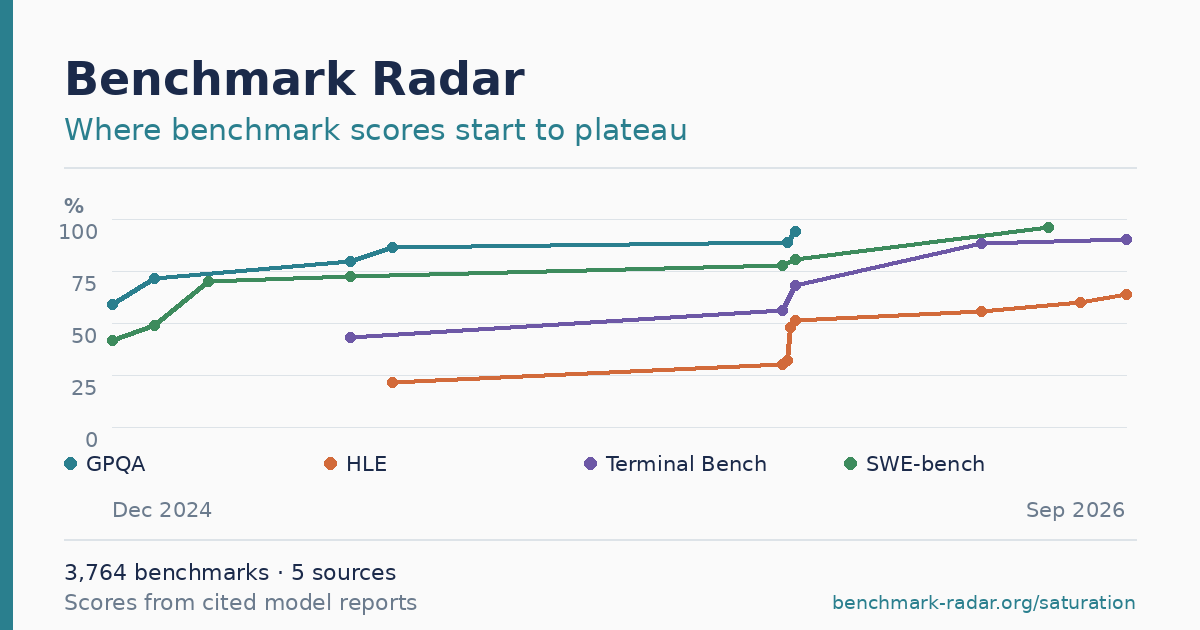
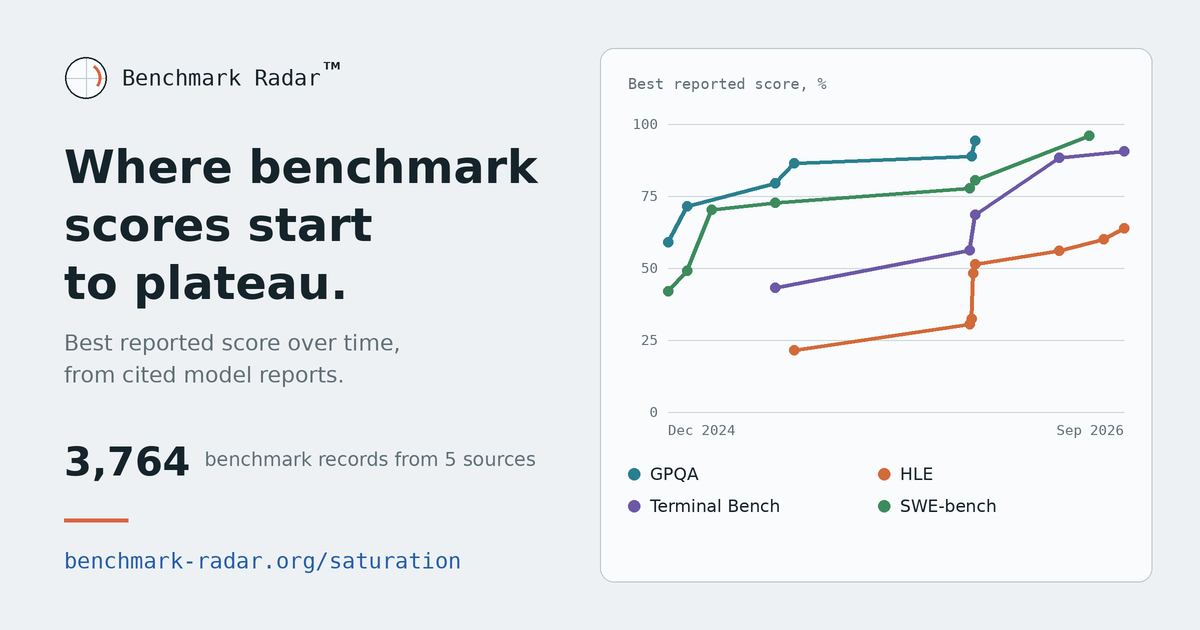
Share cards: add the TM mark, and restyle the saturation card like the main card
Both cards draw the wordmark through one helper with a raised TM. The
/saturation/ card now uses the main card's layout and site tokens: the claim and
live catalog counts on the left, the score frontiers in a panel on the right.

Claude-Session: https://claude.ai/code/session_01PapP1cay71SJgig5Yem7c6

diff --git a/scripts/generate_saturation_og_image.py b/scripts/generate_saturation_og_image.py
@@ -17,20 +17,25 @@ from datetime import date
 from pathlib import Path
 
 from generate_og_image import (
-    BACKGROUND,
+    BLUE,
+    CANVAS,
     DEFAULT_INDEX_PATH,
+    EDGE,
     HEIGHT,
-    INK,
-    LIGHT,
+    LINE,
     MARGIN,
-    SLATE,
-    TEAL,
-    TITLE_SIZE,
+    MUTED,
+    ORANGE,
+    PANEL,
+    SCALE,
+    SITE_INK,
     WIDTH,
     _assert_scalable_fonts,
     catalog_counts,
     font,
     load_index,
+    mono,
+    wordmark,
 )
 from PIL import Image, ImageDraw
 
@@ -54,23 +59,7 @@ def _date_position(value: str, first: date, span: int, left: int, width: int) ->
 
 
 def render(progression: dict, index: dict, output: Path) -> Path:
-    image = Image.new("RGB", (WIDTH, HEIGHT), BACKGROUND)
-    draw = ImageDraw.Draw(image)
-    draw.rectangle([0, 0, 12, HEIGHT], fill=TEAL)
-
-    title = font(TITLE_SIZE, bold=True)
-    subtitle = font(30)
-    body = font(22)
-    label = font(20, bold=True)
-    legend = font(21)
-
-    y = MARGIN - 12
-    draw.text((MARGIN, y), "Benchmark Radar", font=title, fill=INK)
-    y += 60
-    draw.text((MARGIN, y), "Where benchmark scores start to plateau", font=subtitle, fill=TEAL)
-    y += 55
-    draw.line([(MARGIN, y), (WIDTH - MARGIN, y)], fill=LIGHT, width=2)
-
+    """Lay the card out like the main one: words on the left, the chart on the right."""
     records = [
         progression["benchmarks"][benchmark_id]
         for benchmark_id in CHART_BENCHMARKS
@@ -78,61 +67,95 @@ def render(progression: dict, index: dict, output: Path) -> Path:
     ]
     if not records:
         raise ValueError("score progression contains no configured chart benchmarks")
+
+    s = SCALE
+    image = Image.new("RGB", (WIDTH * s, HEIGHT * s), CANVAS)
+    draw = ImageDraw.Draw(image)
+
+    # Left: what the page shows, in words a newcomer can repeat.
+    left = MARGIN * s
+    wordmark(draw, left, 56 * s, s=s)
+    headline = font(46 * s, bold=True)
+    for offset, line in enumerate(("Where benchmark", "scores start", "to plateau.")):
+        draw.text((left, (140 + offset * 58) * s), line, font=headline, fill=SITE_INK)
+    body = font(22 * s)
+    for offset, line in enumerate(("Best reported score over time,", "from cited model reports.")):
+        draw.text((left, (330 + offset * 32) * s), line, font=body, fill=MUTED)
+
+    benchmark_count, source_count = catalog_counts(index)
+    figure = font(40 * s, bold=True)
+    draw.text((left, 438 * s), f"{benchmark_count:,}", font=figure, fill=SITE_INK)
+    figure_width = draw.textlength(f"{benchmark_count:,}", font=figure)
+    draw.text(
+        (left + figure_width + 14 * s, 466 * s),
+        f"benchmark records from {source_count} sources",
+        font=font(19 * s),
+        fill=MUTED,
+        anchor="ls",
+    )
+    draw.line([(left, 520 * s), (left + 64 * s, 520 * s)], fill=ORANGE, width=4 * s)
+    draw.text((left, 548 * s), "benchmark-radar.org/saturation", font=mono(22 * s), fill=BLUE)
+
+    # Right: the score frontiers, in a panel like the main card's search box.
+    panel_left, panel_right = 600 * s, (WIDTH - 48) * s
+    panel_top, panel_bottom = 48 * s, (HEIGHT - 48) * s
+    draw.rounded_rectangle(
+        [panel_left, panel_top, panel_right, panel_bottom],
+        radius=14 * s,
+        fill=PANEL,
+        outline=EDGE,
+        width=s,
+    )
+    inner_left, inner_right = panel_left + 28 * s, panel_right - 28 * s
+    draw.text(
+        (inner_left, panel_top + 36 * s),
+        "Best reported score, %",
+        font=mono(15 * s),
+        fill=MUTED,
+        anchor="lm",
+    )
+    axis = mono(14 * s)
+    plot_left, plot_right = inner_left + 40 * s, inner_right
+    top, bottom = panel_top + 76 * s, panel_top + 364 * s
+    plot_width, plot_height = plot_right - plot_left, bottom - top
+    for value in (0, 25, 50, 75, 100):
+        grid_y = bottom - round(value / 100 * plot_height)
+        draw.line([(plot_left, grid_y), (plot_right, grid_y)], fill=LINE, width=s)
+        draw.text((plot_left - 10 * s, grid_y), str(value), font=axis, fill=MUTED, anchor="rm")
+
     first = min(date.fromisoformat(record["first_reported_at"]) for record in records)
     last = max(date.fromisoformat(record["last_reported_at"]) for record in records)
     span = max((last - first).days, 1)
-    left, right, top, bottom = MARGIN + 48, WIDTH - MARGIN - 10, y + 52, y + 260
-    plot_width, plot_height = right - left, bottom - top
-
-    for value in (0, 25, 50, 75, 100):
-        grid_y = bottom - round(value / 100 * plot_height)
-        draw.line([(left, grid_y), (right, grid_y)], fill=LIGHT, width=1)
-        draw.text((left - 14, grid_y), str(value), font=legend, fill=SLATE, anchor="ra")
-    draw.text((left - 48, top - 25), "%", font=label, fill=SLATE)
-
+    legend = font(17 * s)
     for position, record in enumerate(records):
-        points = record["historical_best_frontier"]["points"]
+        color = COLORS[position]
         xy = []
-        for point in points:
-            x = _date_position(point["reported_at"], first, span, left, plot_width)
+        for point in record["historical_best_frontier"]["points"]:
+            x = _date_position(point["reported_at"], first, span, plot_left, plot_width)
             value = max(0, min(100, float(point["value"])))
             xy.append((x, bottom - round(value / 100 * plot_height)))
         if len(xy) > 1:
-            draw.line(xy, fill=COLORS[position], width=5, joint="curve")
+            draw.line(xy, fill=color, width=4 * s, joint="curve")
         for x, point_y in xy:
-            draw.ellipse([x - 5, point_y - 5, x + 5, point_y + 5], fill=COLORS[position])
+            draw.ellipse([x - 5 * s, point_y - 5 * s, x + 5 * s, point_y + 5 * s], fill=color)
 
-        legend_x = MARGIN + position * 260
-        draw.ellipse([legend_x, bottom + 30, legend_x + 12, bottom + 42], fill=COLORS[position])
+        legend_x = inner_left + (position % 2) * 250 * s
+        legend_y = bottom + (62 + (position // 2) * 32) * s
+        draw.ellipse([legend_x, legend_y - 6 * s, legend_x + 12 * s, legend_y + 6 * s], fill=color)
         draw.text(
-            (legend_x + 22, bottom + 24),
+            (legend_x + 22 * s, legend_y),
             _short_name(record["benchmark_id"].replace("_", " ").title()),
             font=legend,
-            fill=INK,
+            fill=SITE_INK,
+            anchor="lm",
         )
 
-    draw.text((left, bottom + 70), first.strftime("%b %Y"), font=legend, fill=SLATE)
-    draw.text((right, bottom + 70), last.strftime("%b %Y"), font=legend, fill=SLATE, anchor="ra")
-    y = bottom + 112
-    draw.line([(MARGIN, y), (WIDTH - MARGIN, y)], fill=LIGHT, width=2)
-    y += 20
-    benchmark_count, source_count = catalog_counts(index)
+    draw.text((plot_left, bottom + 10 * s), first.strftime("%b %Y"), font=axis, fill=MUTED)
     draw.text(
-        (MARGIN, y),
-        f"{benchmark_count:,} benchmarks · {source_count} sources",
-        font=body,
-        fill=INK,
-    )
-    y += 30
-    draw.text((MARGIN, y), "Scores from cited model reports", font=body, fill=SLATE)
-    draw.text(
-        (WIDTH - MARGIN, y + 2),
-        "benchmark-radar.org/saturation",
-        font=font(19),
-        fill=TEAL,
-        anchor="ra",
+        (plot_right, bottom + 10 * s), last.strftime("%b %Y"), font=axis, fill=MUTED, anchor="ra"
     )
 
+    image = image.resize((WIDTH, HEIGHT), Image.Resampling.LANCZOS)
     output.parent.mkdir(parents=True, exist_ok=True)
     image.save(output, "PNG", optimize=True)
     return output

diff --git a/scripts/generate_og_image.py b/scripts/generate_og_image.py
@@ -146,6 +146,16 @@ def _radar_mark(draw: ImageDraw.ImageDraw, x: int, y: int, size: int) -> None:
     draw.arc(ring, start=-90 + 35, end=0 + 35, fill=ORANGE, width=round(4 * unit))
 
 
+def wordmark(draw: ImageDraw.ImageDraw, x: int, y: int, *, s: int) -> None:
+    """The radar glyph, the name, and a raised TM, shared by every share card."""
+    _radar_mark(draw, x, y, 44 * s)
+    face = mono(22 * s)
+    name_x = x + 58 * s
+    draw.text((name_x, y + 22 * s), "Benchmark Radar", font=face, fill=SITE_INK, anchor="lm")
+    tm_x = name_x + draw.textlength("Benchmark Radar", font=face) + 3 * s
+    draw.text((tm_x, y + 10 * s), "TM", font=font(10 * s, bold=True), fill=SITE_INK, anchor="lm")
+
+
 def _chip(
     draw: ImageDraw.ImageDraw, x: int, y: int, text: str, *, s: int, strong: bool = False
 ) -> int:
@@ -209,10 +219,7 @@ def render(index: dict, output: Path) -> Path:
 
     # Left: what this is, in words a newcomer can repeat.
     left = MARGIN * s
-    _radar_mark(draw, left, 56 * s, 44 * s)
-    draw.text(
-        (left + 58 * s, 78 * s), "Benchmark Radar", font=mono(22 * s), fill=SITE_INK, anchor="lm"
-    )
+    wordmark(draw, left, 56 * s, s=s)
 
     headline = font(54 * s, bold=True)
     for offset, line in enumerate(("Find any", "AI benchmark.")):
